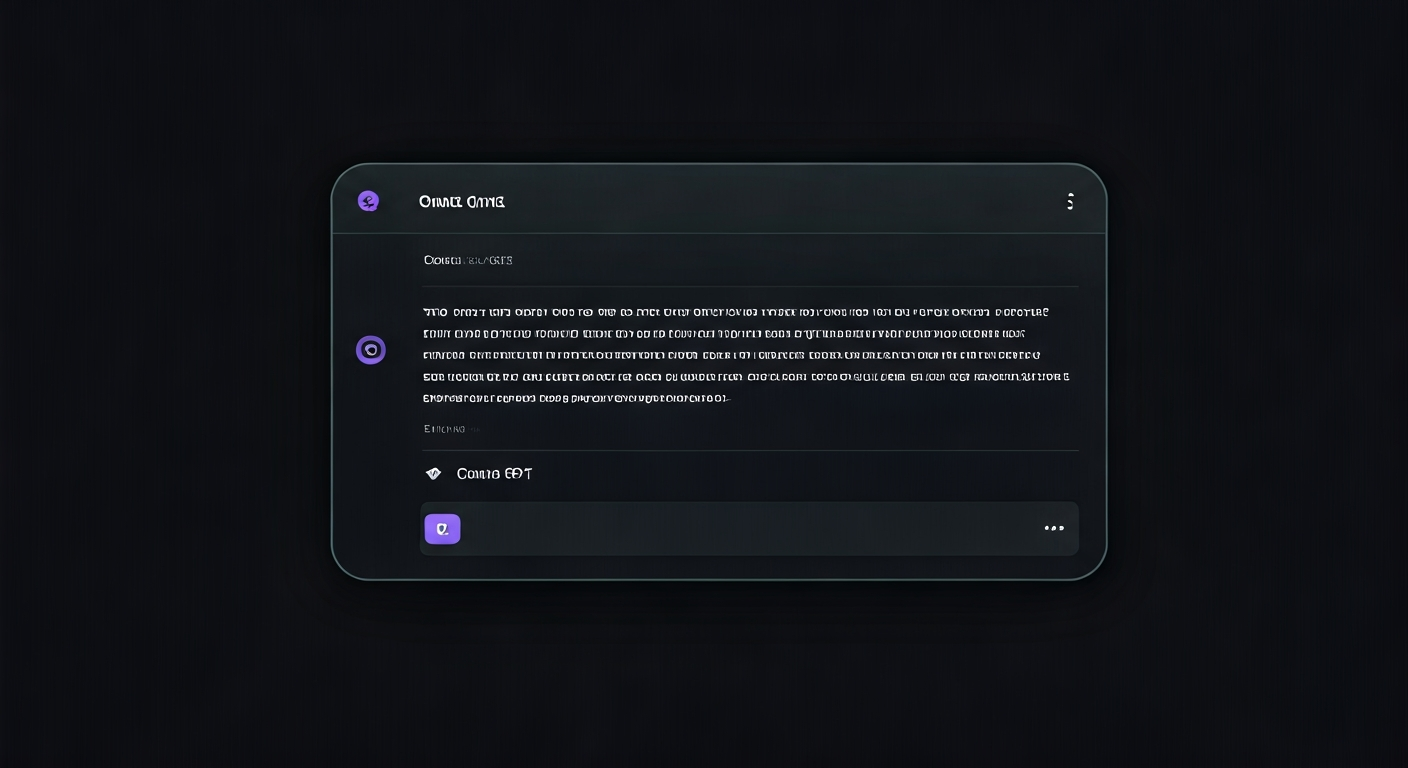
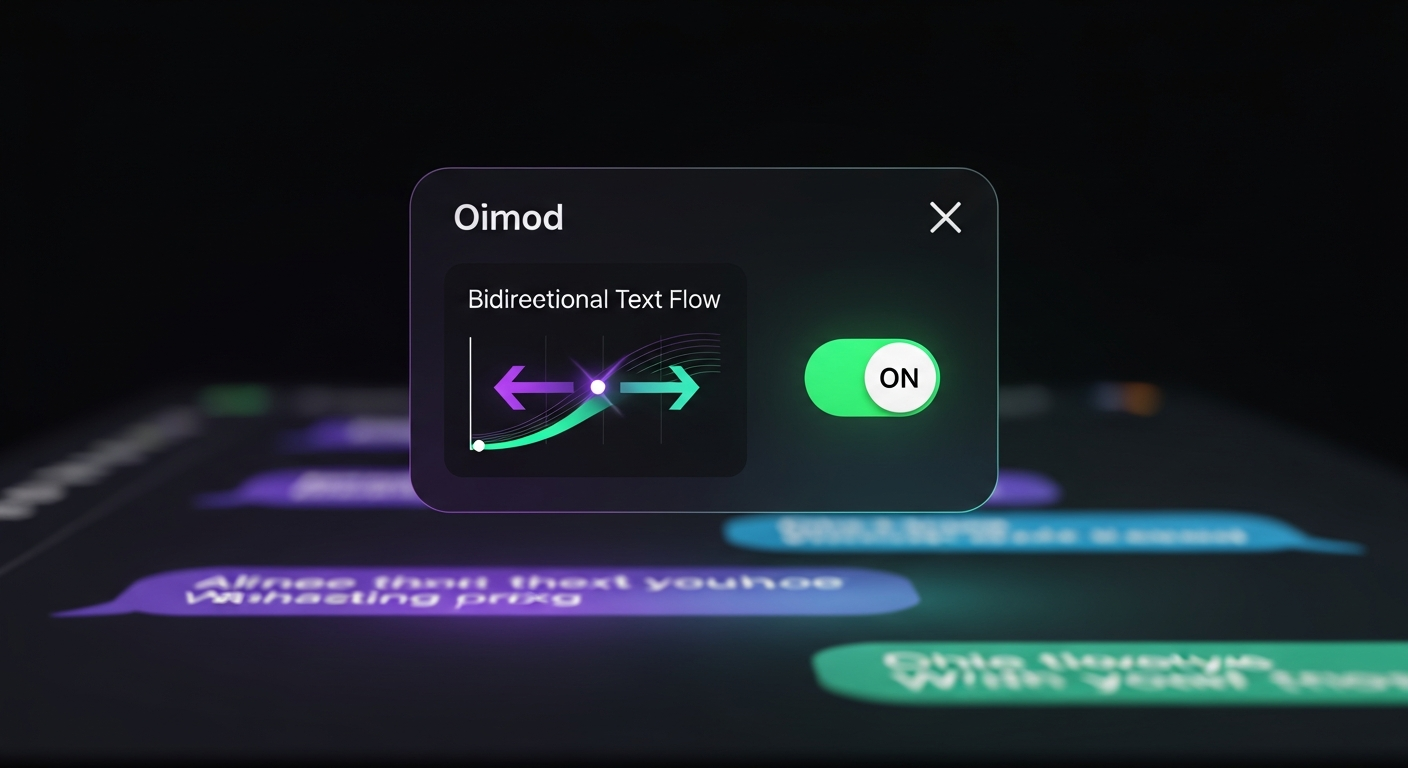
Improve RTL project image + larger download buttons

diff --git a/index.html b/index.html
@@ -228,6 +228,11 @@ body.edit-mode .main,body.edit-mode .sidebar{padding-top:46px}
 .pin-input:focus{border-color:var(--ac)}
 .pin-err{color:var(--re);font-size:11px;margin-top:-8px;margin-bottom:8px;min-height:16px}
 
+.card-dl-row{display:flex;gap:8px;padding:12px 15px 14px;flex-wrap:wrap}
+.btn-dl-primary{flex:1;display:inline-flex;align-items:center;justify-content:center;gap:6px;background:var(--ac);color:#fff;border:none;padding:10px 14px;border-radius:9px;font-size:12px;font-weight:700;cursor:pointer;font-family:inherit;text-decoration:none;transition:opacity .2s;min-width:120px}
+.btn-dl-primary:hover{opacity:.85}
+.btn-dl-secondary{flex:1;display:inline-flex;align-items:center;justify-content:center;gap:6px;background:transparent;color:var(--tx);border:1px solid var(--bor2);padding:10px 14px;border-radius:9px;font-size:12px;font-weight:600;cursor:pointer;font-family:inherit;text-decoration:none;transition:all .2s;min-width:120px}
+.btn-dl-secondary:hover{border-color:var(--ac);color:var(--ac)}
 ::-webkit-scrollbar{width:4px}
 ::-webkit-scrollbar-track{background:transparent}
 ::-webkit-scrollbar-thumb{background:var(--bor2);border-radius:2px}
@@ -650,7 +655,7 @@ function renderProjects(){
         <div class="card-desc">${esc(p.desc)}</div>
         <div class="card-tags">${p.tags.map(t=>`<span class="ctag">${esc(t)}</span>`).join('')}</div>
         ${roiItems?`<div class="roi-section">${roiItems}</div>`:''}
-        <div class="card-footer"><span class="sbadge ${scM[p.status]}">${slM[p.status]}</span><div class="clinks">${p.demo?(p.demo.endsWith('.zip')?`<a class="clink" href="${safeUrl(p.demo)}" download>⬇ הורד תוסף</a>`:`<a class="clink" href="${safeUrl(p.demo)}" target="_blank">🔗 Demo</a>`):''}${p.github?(p.github.endsWith('.pdf')?`<a class="clink" href="${safeUrl(p.github)}" target="_blank">📄 מדריך התקנה</a>`:`<a class="clink" href="${safeUrl(p.github)}" target="_blank">💻 GitHub</a>`):''}  </div></div>
+        ${(p.demo&&p.demo.endsWith('.zip'))?`<div class="card-dl-row"><a class="btn-dl-primary" href="${safeUrl(p.demo)}" download>⬇ הורד תוסף</a>${p.github&&p.github.endsWith('.pdf')?`<a class="btn-dl-secondary" href="${safeUrl(p.github)}" target="_blank">📄 מדריך התקנה</a>`:''}</div>`:`<div class="card-footer"><span class="sbadge ${scM[p.status]}">${slM[p.status]}</span><div class="clinks">${p.demo?`<a class="clink" href="${safeUrl(p.demo)}" target="_blank">🔗 Demo</a>`:''}${p.github?(p.github.endsWith('.pdf')?`<a class="clink" href="${safeUrl(p.github)}" target="_blank">📄 מדריך</a>`:`<a class="clink" href="${safeUrl(p.github)}" target="_blank">💻 GitHub</a>`):''}  </div></div>`}
       </div></div>`;
   }).join('');
 }
